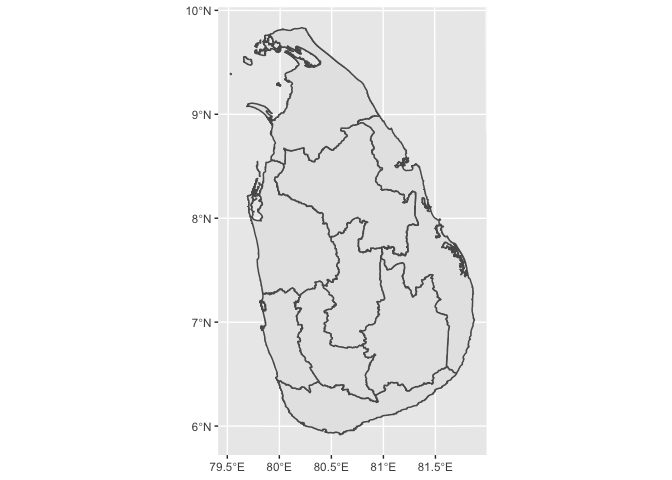
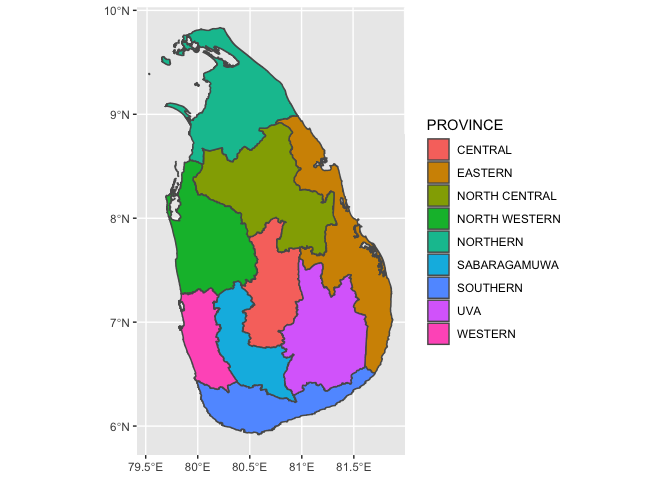
updated

diff --git a/README.md b/README.md
@@ -7,7 +7,7 @@
 
 <!-- badges: end -->
 
-The goal of ceylon is to …
+The goal of ceylon is to plot maps of Sri Lanka.
 
 ## Installation
 
@@ -53,7 +53,25 @@ ggplot(sf_sl_0) + geom_sf()
 
 ``` r
 data(sf_sl_1)
-ggplot(sf_sl_1) + geom_sf()
+sf_sl_1
+#> Simple feature collection with 9 features and 1 field
+#> geometry type:  MULTIPOLYGON
+#> dimension:      XY
+#> bbox:           xmin: 362203.3 ymin: 380301.9 xmax: 621918.1 ymax: 813560.9
+#> projected CRS:  SLD99 / Sri Lanka Grid 1999
+#> # A tibble: 9 x 2
+#>                                                             geometry PROVINCE   
+#>                                                   <MULTIPOLYGON [m]> <chr>      
+#> 1 (((498211.2 611042.6, 498401.7 610897.1, 498415.9 610886.3, 49862… CENTRAL    
+#> 2 (((609877 559315.9, 609857.5 559313, 609845.2 559319.5, 609838.7 … EASTERN    
+#> 3 (((501928.5 712099.6, 501970.4 712098.8, 502020 712108.4, 502064.… NORTH CENT…
+#> 4 (((393087.5 629959, 393098.1 629956.7, 393103.2 629956.7, 393108.… NORTH WEST…
+#> 5 (((405858.7 700083.7, 405855.3 700082, 405851.5 700082.9, 405800.… NORTHERN   
+#> 6 (((432117.3 521875.5, 432083.5 521852.9, 432041.7 521860.8, 43204… SABARAGAMU…
+#> 7 (((481925.5 381353.7, 481922.9 381350.3, 481919 381348.2, 481914.… SOUTHERN   
+#> 8 (((522825 568220.9, 522872.6 568217.7, 522926.1 568222.5, 523017.… UVA        
+#> 9 (((411888.2 438189.4, 411886.4 438182.3, 411881.7 438182.2, 41187… WESTERN
+ggplot(sf_sl_1) + geom_sf(mapping = aes(fill = PROVINCE), show.legend = TRUE)
 ```
 
 <img src="man/figures/README-example1-1.png" width="100%" />
@@ -62,7 +80,7 @@ ggplot(sf_sl_1) + geom_sf()
 
 ``` r
 data(sf_sl_2)
-ggplot(sf_sl_2) + geom_sf()
+ggplot(sf_sl_2) + geom_sf(mapping = aes(fill = DISTRICT), show.legend = FALSE)
 ```
 
 <img src="man/figures/README-example2-1.png" width="100%" />
